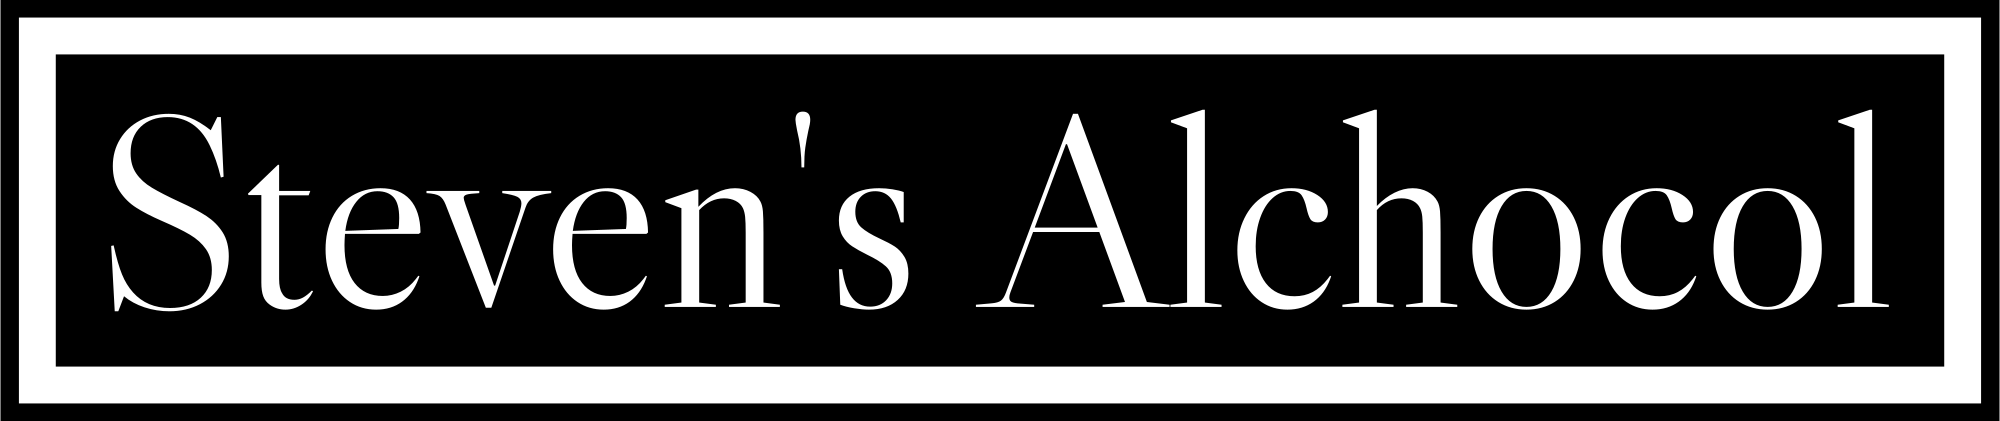
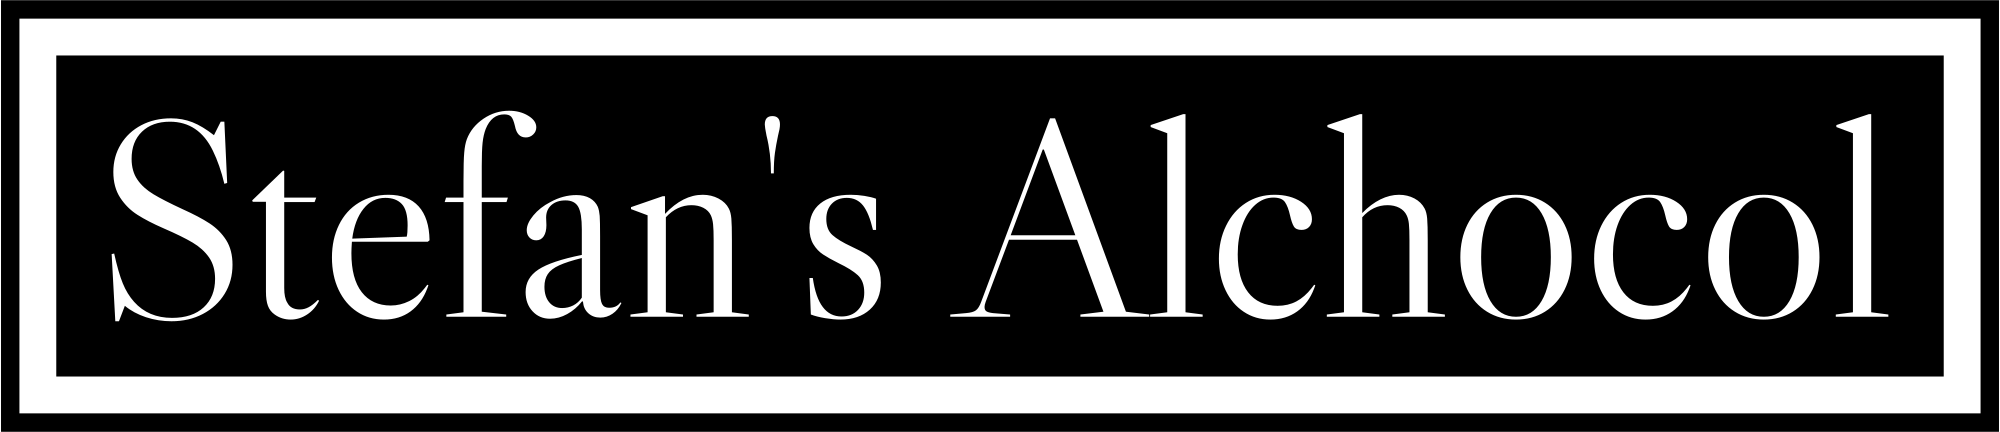
Added "The Usual" Page for regular drinks

diff --git a/usual.php b/usual.php
@@ -3,20 +3,18 @@
 <head>
     <meta charset="UTF-8">
     <meta name="viewport" content="width=device-width, initial-scale=1.0">
-    <title>New Year Menu</title>
+    <title>Steven's Alcohol</title>
     <link rel="icon" type="image/x-icon" href="./images/favicon.png">
     <link rel="stylesheet" href="./bootstrap/bootstrap.min.css">
     <link rel="stylesheet" href="./styles/global.css">
     <link rel="preconnect" href="https://fonts.googleapis.com">
     <link rel="preconnect" href="https://fonts.gstatic.com" crossorigin>
     <link href="https://fonts.googleapis.com/css2?family=Alegreya+SC&display=swap" rel="stylesheet">
-    <link href="https://fonts.googleapis.com/css2?family=Agbalumo&family=Alegreya+SC&family=Libre+Caslon+Display&display=swap" rel="stylesheet"> 
-        
 </head>
 <body>
     <nav class="navbar navbar-expand-sm navbar-light bg-light">
-        <div class="container">
-            <a class="navbar-brand" href="#"><img src="./images/navlogo.png" alt="Navbar Logo" class="nav-img"></a>
+          <div class="container">
+          <a class="navbar-brand" href="./index.php"><img src="./images/navlogo.png" alt="Navbar Logo" height="56px"></a>
             <button class="navbar-toggler d-lg-none" type="button" data-bs-toggle="collapse" data-bs-target="#collapsibleNavId" aria-controls="collapsibleNavId"
                 aria-expanded="false" aria-label="Toggle navigation">
                 <span class="navbar-toggler-icon"></span>
@@ -24,13 +22,13 @@
             <div class="collapse navbar-collapse" id="collapsibleNavId">
                 <ul class="navbar-nav me-auto mt-2 mt-lg-0">
                     <li class="nav-item">
-                        <a class="nav-link active" href="#" aria-current="page">Home</a>
+                        <a class="nav-link" href="./index.php" aria-current="page">Home</a>
                     </li>
                     <li class="nav-item">
                         <a class="nav-link" href="./daniel.php">Daniel's Coffee</a>
                     </li>
                     <li class="nav-item">
-                        <a class="nav-link" href="./steven.php">Stefan's Alcohol</a>
+                        <a class="nav-link active" href="#">Stefan's Alcohol</a>
                     </li>
                     <li class='nav-item'>
                     <?php
@@ -45,48 +43,8 @@
                     ?>
                 </ul>
             </div>
-        </div>
+      </div>
     </nav>
-    <?php
-        if (isset($_GET['status'])) {
-            $status = $_GET['status'];
-            
-            if ($status === 'success') {
-                echo file_get_contents("./success.html");
-            } else if ($status === 'error') {
-                echo file_get_contents("./error.html");
-            } else if ($status === 'cooldown') {
-                echo file_get_contents("./cooldown.html");
-            }
-        }
-    ?>
-    
-    <div class="title">
-        <div class="title-image">
-            <img src="./images/logo.png" alt="New Year Menu Logo">
-        </div>
-        <div class="title-text text-center">
-            <p class="display-2">
-                <?php
-                    if (isset($_COOKIE["Name"])) {
-                        echo "Welcome, ".$_COOKIE["Name"]. "!";
-                    }
-                    else {
-                        echo "Welcome, Guest!";
-                    }
-                ?>
-            </p>
-            <p class="text-body-secondary title-subtext" data-bs-toggle="modal" data-bs-target="#modalId">
-                <u>
-                    <?php
-                        if (!isset($_COOKIE["Name"])) {
-                            echo "Please sign in.";
-                        }
-                    ?>
-                </u>
-            </p>
-        </div>
-    </div>
     <div class="modal fade" id="modalId" tabindex="-1" data-bs-backdrop="static" data-bs-keyboard="false" role="dialog" aria-labelledby="modalTitleId" aria-hidden="true">
         <div class="modal-dialog modal-dialog-scrollable modal-dialog-centered modal-sm" role="document">
             <div class="modal-content">
@@ -110,37 +68,26 @@
             </div>
         </div>
     </div>
-    <div class="cards">
-        <div class="card card-1" style="width: 80%;">
-            <img src="./images/danielcoffee.png" class="card-img-top" alt="Daniel's Coffee Logo">
-            <div class="card-body">
-                <!-- <h3 class="card-title daniel-title"><b>Daniel's Coffee</b></h3> -->
-                <p class="card-text">Mixing milk and alcohol is not recommended, unless it's Irish coffee.</p>
-                <a href="./daniel.php" class="btn btn-secondary card-button">Go to Page</a>
-            </div>
-        </div>
-        <div class="card card-2" style="width: 80%;">
-            <img src="./images/stevenalcohol.png" class="card-img-top" alt="Steven's Alcohol Logo">
-            <div class="card-body">
-                <!-- <h3 class="card-title"><b>Steven's Alcohol</b></h3> -->
-                <p class="card-text">Liquor probably isn't a good solution but it's worth a shot.</p>
-                <a href="./steven.php" class="btn btn-secondary card-button">Go to Page</a>
-            </div>
-        </div>
-        <div class="card card-3" style="width: 80%;">
-            <img src="./images/theusual.png" class="card-img-top" alt="The Usual Logo">
-            <div class="card-body">
-                <!-- <h3 class="card-title"><b>The Usual</b></h3> -->
-                <p class="card-text">What you can expect to see at any party.</p>
-                <a href="./usual.php" class="btn btn-secondary card-button">Go to Page</a>
-            </div>
-        </div>
-    </div>
+    <img src="./images/theusual.png" alt="The Usual Logo"  style="width:100%; margin-bottom: 20px;">
+    <form action="./order.php" method="post">
+        <div class="card-group" id="cardGroup">
+            <?php
+                $db = mysqli_connect("127.0.0.1", "root", "", "nydrinkmenu");
+                $result = $db->query("SELECT * FROM `usual` ORDER BY `id`;");
+                for ($row_no = 0; $row_no < $result->num_rows; $row_no++) {
+                    $result->data_seek($row_no);
+                    $row = $result->fetch_assoc();
+                    echo
+                    "<div class='card'>".
+                    "<img class='card-img-top' src='./images/usual/".$row['imagepath']."'/>".
+                    "<div class='card-body'>".
+                    "<h4 class='card-title'>".$row['name']."<span class='text-muted fs-6' style='margin-left: 6px;'>".$row['volume']."ml</span></h4>".
+                    "<p class='card-text'>".$row['description']."</p>".
+                    "<button type='submit' class='btn btn-primary' name='order_usual' value='".$row['id']."'>Order ".$row['name']."</button>".
+                    "</div></div>";
+                }
+            ?>
+    </form>
 </body>
 </html>
-
-<script>
-    const myModal = new bootstrap.Modal(document.getElementById('modalId'), options)
-</script>
 <script src="./bootstrap/bootstrap.min.js"></script>
-

diff --git a/order.php b/order.php
@@ -14,13 +14,17 @@
         $sugar = $_POST['sugar'];
 
         $query = "INSERT INTO orderlist (order_id, drink_id, sugar, username, type) VALUES ('".$order_id."','".$drink_id."','".$sugar."','".$name."', 'coffee')";
-
     }
     else if (isset($_POST['order_alcohol'])) {
         $drink_id = $_POST['order_alcohol'];
 
         $query = "INSERT INTO orderlist (order_id, drink_id, username, type) VALUES ('".$order_id."','".$drink_id."','".$name."', 'alcohol')";
-    }   
+    } 
+    else if (isset($_POST['order_usual'])) {
+        $drink_id = $_POST['order_usual'];
+
+        $query = "INSERT INTO orderlist (order_id, drink_id, username, type) VALUES ('".$order_id."','".$drink_id."','".$name."', 'usual')";
+    }
 
     // Check if the cooldown cookie is set
     if (!isset($_COOKIE["QueryCooldown"])) {

diff --git a/daniel.php b/daniel.php
@@ -28,7 +28,7 @@
                         <a class="nav-link active" href="#">Daniel's Coffee</a>
                     </li>
                     <li class="nav-item">
-                        <a class="nav-link " href="./steven.php">Steven's Alchocol</a>
+                        <a class="nav-link " href="./steven.php">Stefan's Alcohol</a>
                     </li>
                     <li class='nav-item'>
                     <?php

diff --git a/steven.php b/steven.php
@@ -28,7 +28,7 @@
                         <a class="nav-link" href="./daniel.php">Daniel's Coffee</a>
                     </li>
                     <li class="nav-item">
-                        <a class="nav-link active" href="#">Steven's Alchocol</a>
+                        <a class="nav-link active" href="#">Stefan's Alcohol</a>
                     </li>
                     <li class='nav-item'>
                     <?php
